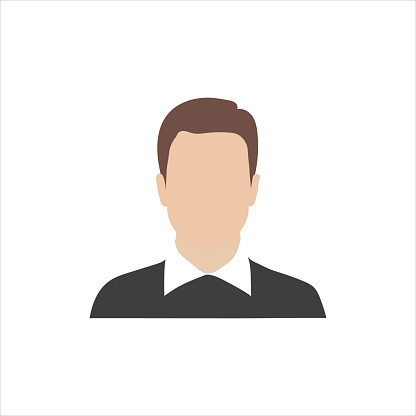
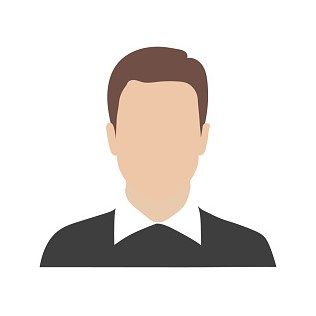
Update responsive design for related people pages

diff --git a/CoCo/front-end/related-people/css/related.css b/CoCo/front-end/related-people/css/related.css
@@ -20,9 +20,13 @@
     background-color: #EEEEEE;
 }
 
+#avatar{
+    align-self: center;
+}
+
 #avatar img {
-    height: 250px;
-    width: 250px;
+    height: 200px;
+    width: 200px;
     border-radius: 50%;
     align-self: center;
 }
@@ -77,6 +81,8 @@
     display: flex;
     justify-content: center;
     align-items: center;
+    text-align: center;
+    font-weight: bold;
     border: 3px solid #D8D2CB;
     border-bottom: none;
     background-color: #D8D2CB;
@@ -152,20 +158,32 @@ td {
     .info-container {
         display: flex;
         flex-direction: column;
+    }
+
+    .info-container {
+        display: flex;
+        flex-direction: column;
         justify-content: center;
         align-items: center;
     }
 
     .side-info {
+        display: grid;
+        grid-template-columns: 1fr 2fr;
+        grid-template-rows: 4fr 1fr;
+        grid-auto-flow: column;
+        align-items: flex-start;
         height: auto;
+        width: 100%;
         border: none;
-        background-color: white;
+        background-color: #EEEEEE;
     }
 
     .main-info {
+        grid-row: 1 / span 2;
         display: flex;
         flex-direction: column;
-        justify-content: center;
+        padding-left: 10px;
     }
 
     #payment,
@@ -174,16 +192,34 @@ td {
     }
 
     #avatar {
+        display: flex;
+        justify-content: center;
         background-color: none;
+    }
+
+    #avatar img{
+        width: 150px;
+        height: 150px;
+        align-self: center;
+    }
+
+    #username{
+        display: flex;
+        flex-direction: column;
+        justify-content: flex-end;
+        font-size: small;
+        margin-top: 0;
     }
 
     .info-tag {
         background-color: white;
+        margin-bottom: 15px;
     }
 
     .detail-container {
-        display: grid;
-        grid-template-rows: 1fr 6fr;
+        display: flex;
+        flex-direction: column;
+        width: 100%;
     }
 
     #row-tabs {
@@ -191,5 +227,13 @@ td {
         grid-template-columns: 1fr 1fr 1fr 1fr;
         gap: 10px;
         height: auto;
+    }
+
+    .tab{
+        
+    }
+
+    .content{
+        overflow-x: auto;
     }
 }

diff --git a/CoCo/front-end/related-people/css/cart.css b/CoCo/front-end/related-people/css/cart.css
@@ -96,7 +96,7 @@
     text-decoration: none;
 }
 
-@media (max-width: 768px) {
+@media (max-width: 922px) {
     .selected-package {
         display: grid;
         grid-template-columns: 1fr 2fr 1fr;
